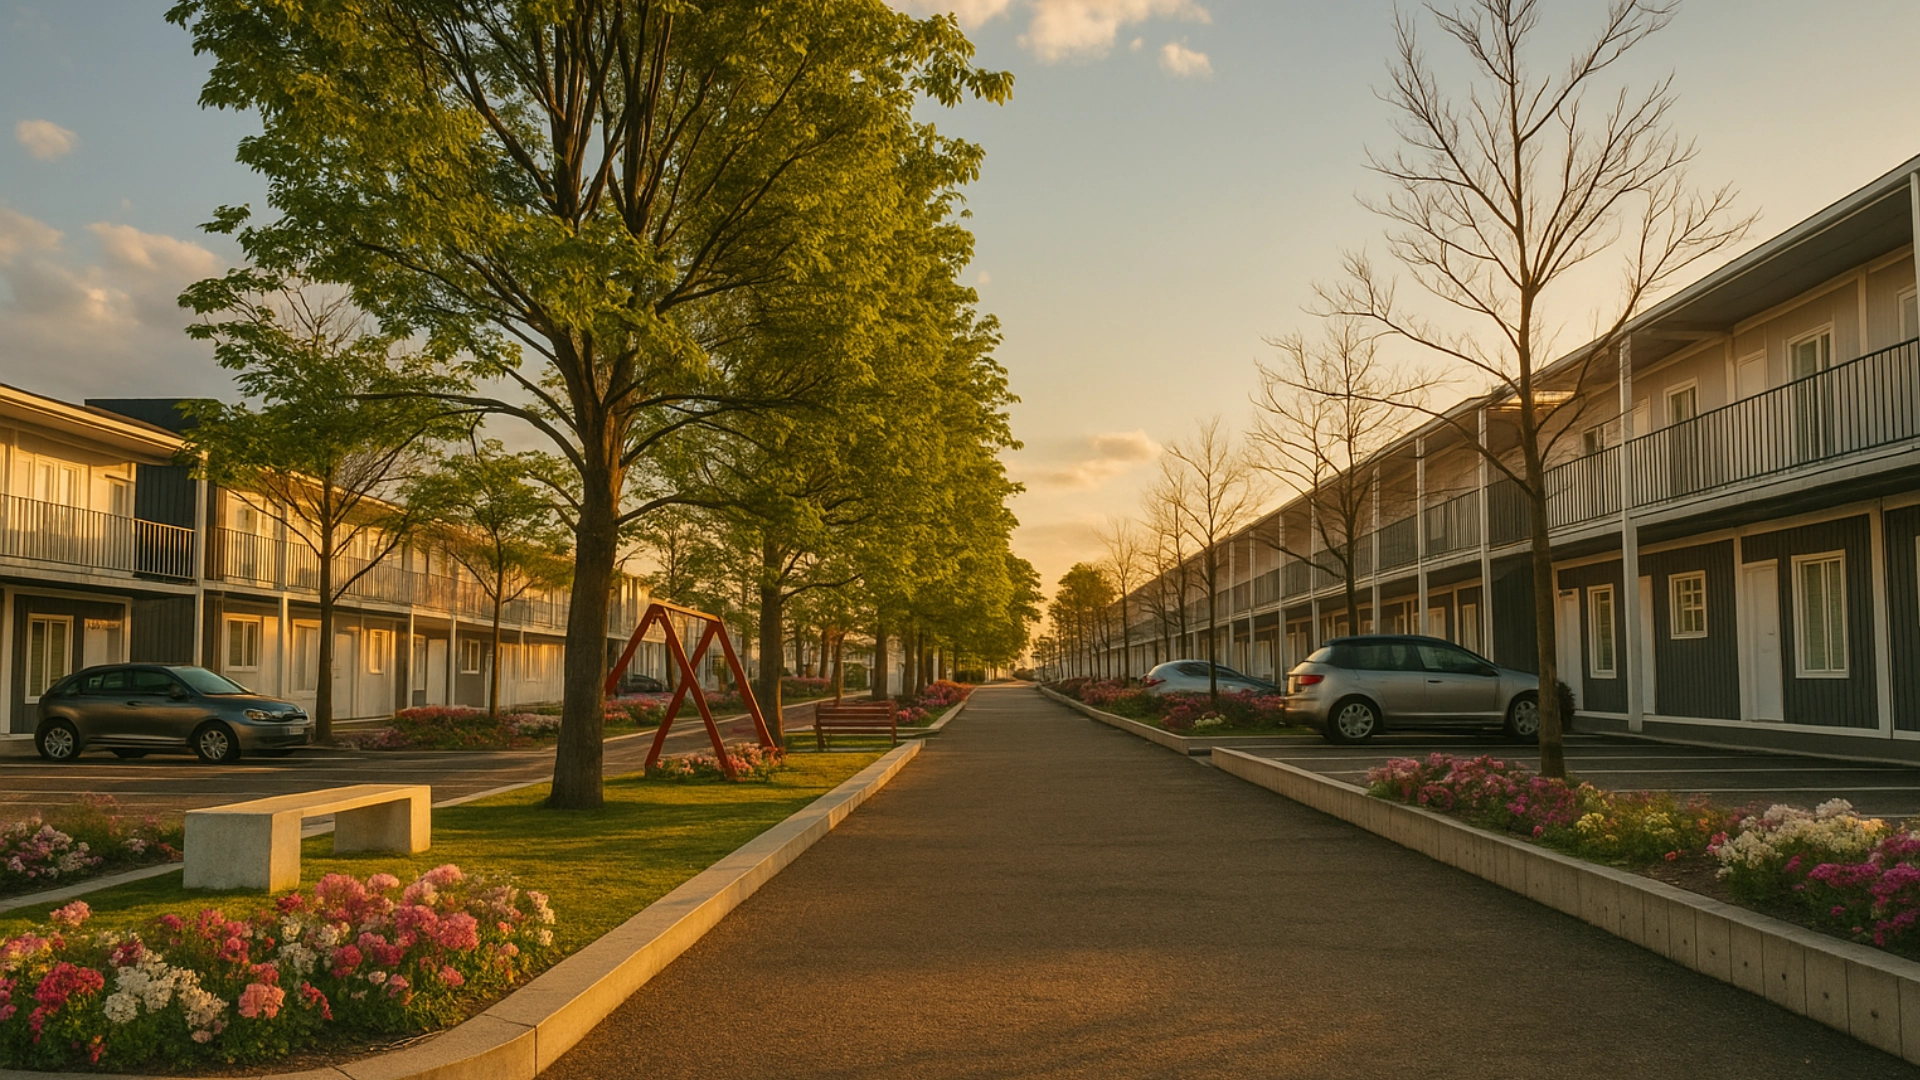
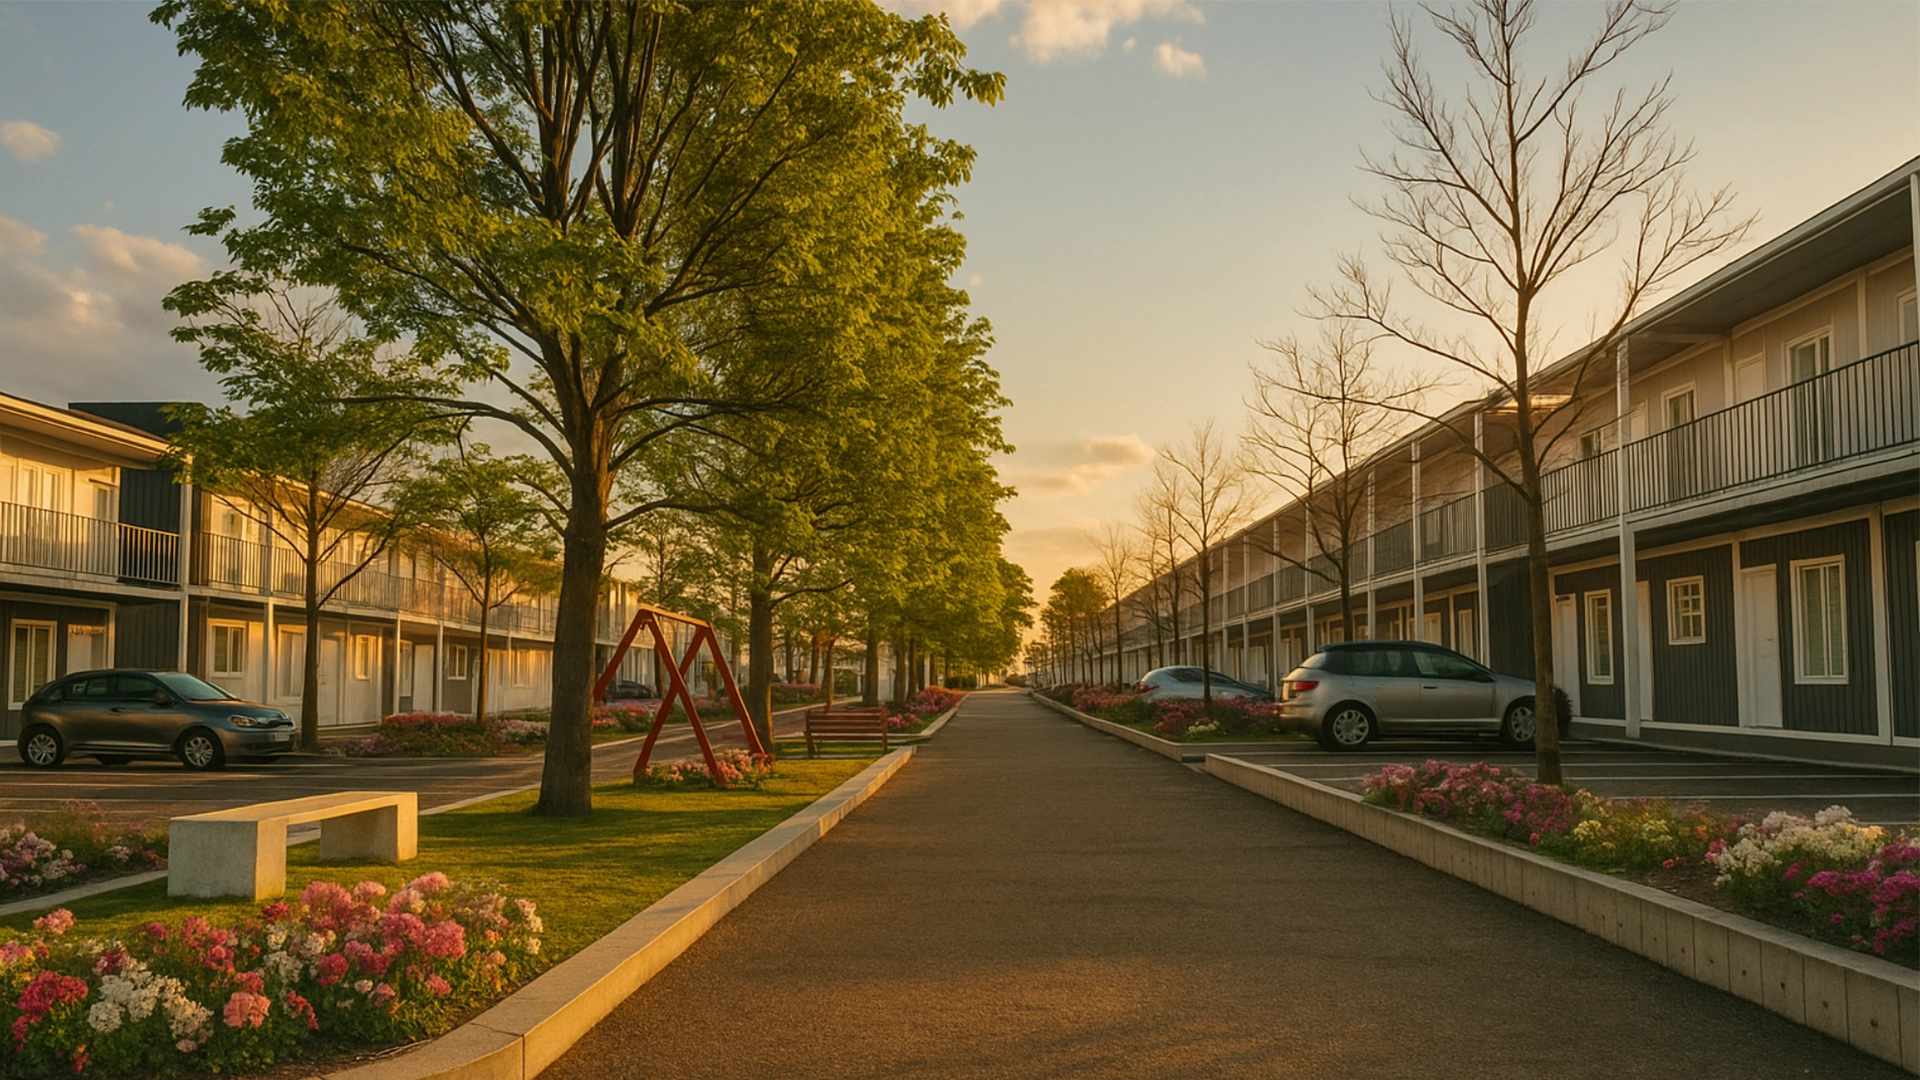
cambiando img a webp

diff --git a/src/app/vivienda-joven/components/sectionHero/sectionHero.tsx b/src/app/vivienda-joven/components/sectionHero/sectionHero.tsx
@@ -18,11 +18,11 @@ export default function SectionHero() {
         > Departamentos inteligentes en Juana Koslay · <br/> Entrega proyectada · Cupos limitados</p>
         <ButtonContact href="#formulario" className="text-xs md:text-2xl uppercase bg-white text-blue hover:bg-white/40 hover:text-white hover:border-white border-1 py-5" label="CONSULTA HOY MISMO QUE SE AGOTAN"/>
         <Image 
-            src="/img/vivienda-joven/hero.png"
+            src="/img/vivienda-joven/hero.webp"
             alt="Vivienda Joven"
-            width={1000}
-            height={1000}
-            className={`absolute top-0 left-0 w-full object-cover md:object-center -z-2`} 
+            width={2000}
+            height={2000}
+            className={`absolute top-0 left-0 w-full object-cover object-left -z-2`} 
             style={{ height: `${H}vh` }}
         />
     </section>

diff --git a/src/app/vivienda-joven/components/form/form.tsx b/src/app/vivienda-joven/components/form/form.tsx
@@ -129,7 +129,7 @@ export default function FormularioInversion() {
     <section
       className="relative w-full flex items-center justify-center bg-white min-h-[90vh]"
       style={{
-        backgroundImage: 'url("/img/vivienda-joven/bg-form.jpg")', 
+        backgroundImage: 'url("/img/vivienda-joven/bg-form.webp")', 
         backgroundSize: "fill",
         backgroundPosition: "center",
       }}

diff --git a/src/app/components/home/home.tsx b/src/app/components/home/home.tsx
@@ -19,7 +19,7 @@ export default function Home(){
                 aria-label="Hero Pagina Principal"
                 width={2000} 
                 height={2000} 
-                className="w-full h-[80vh] absolute  top-0 left-0 object-top -z-1"
+                className="w-full h-[90vh] absolute  top-0 left-0 object-top -z-1"
             />
         </section> 
               
